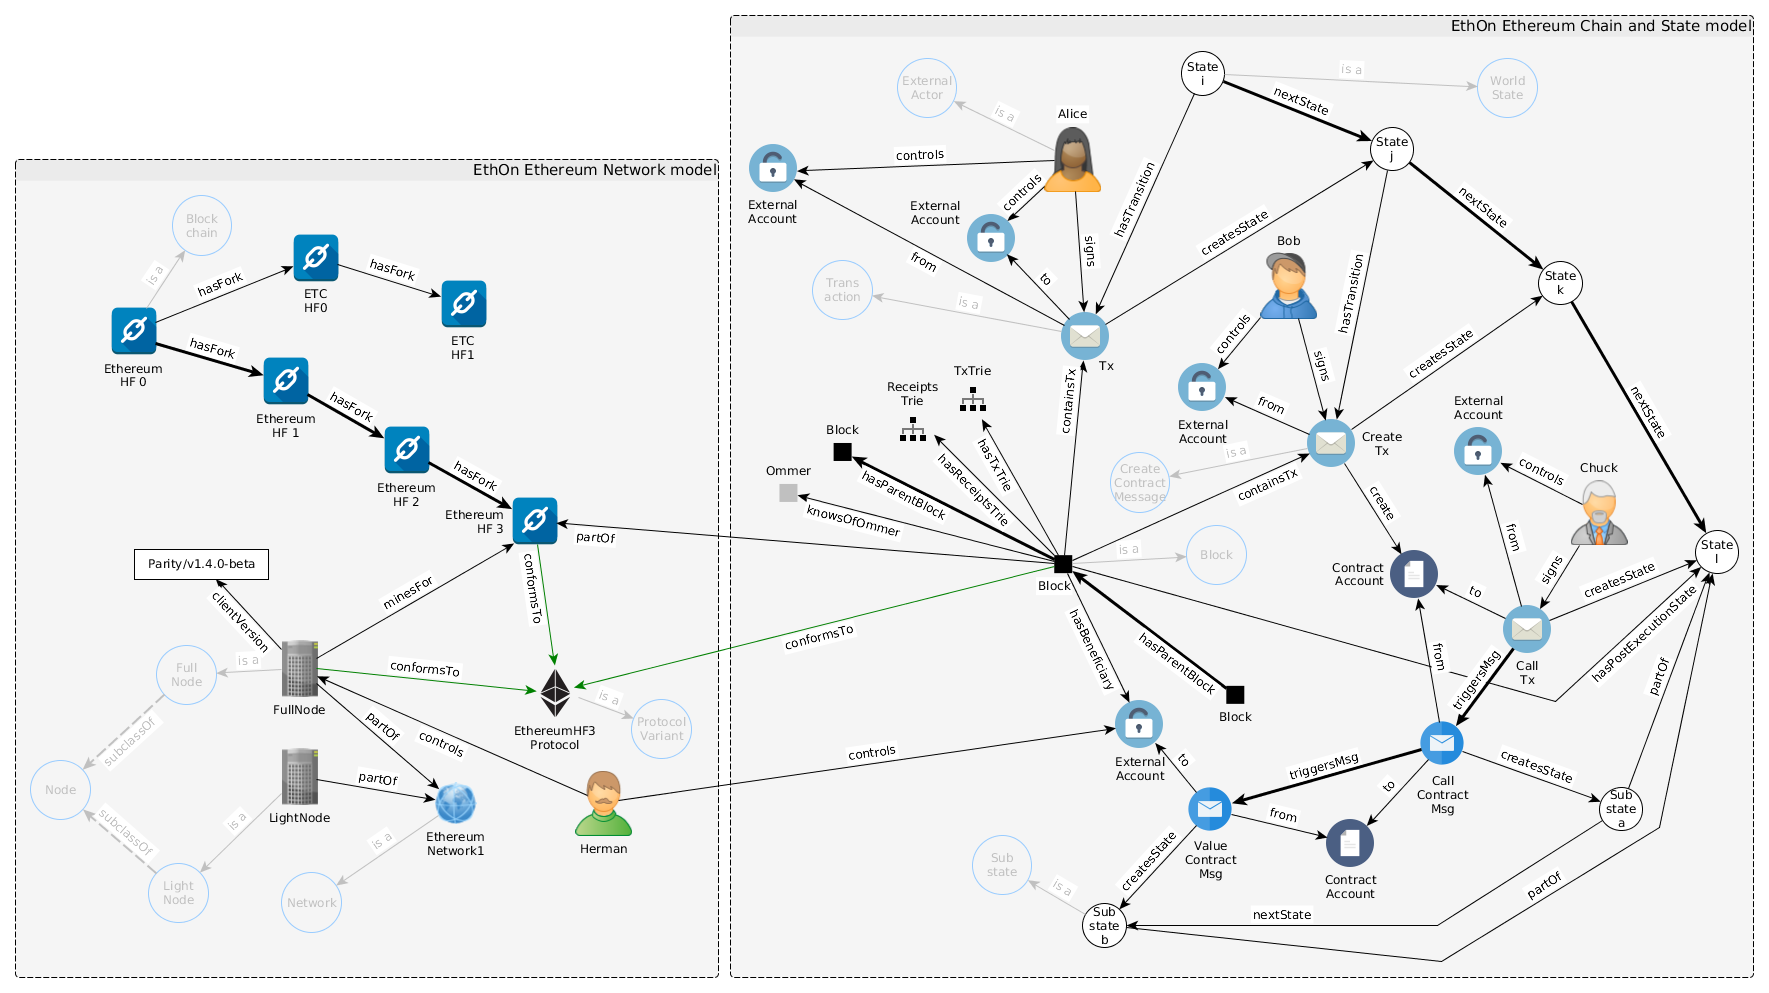
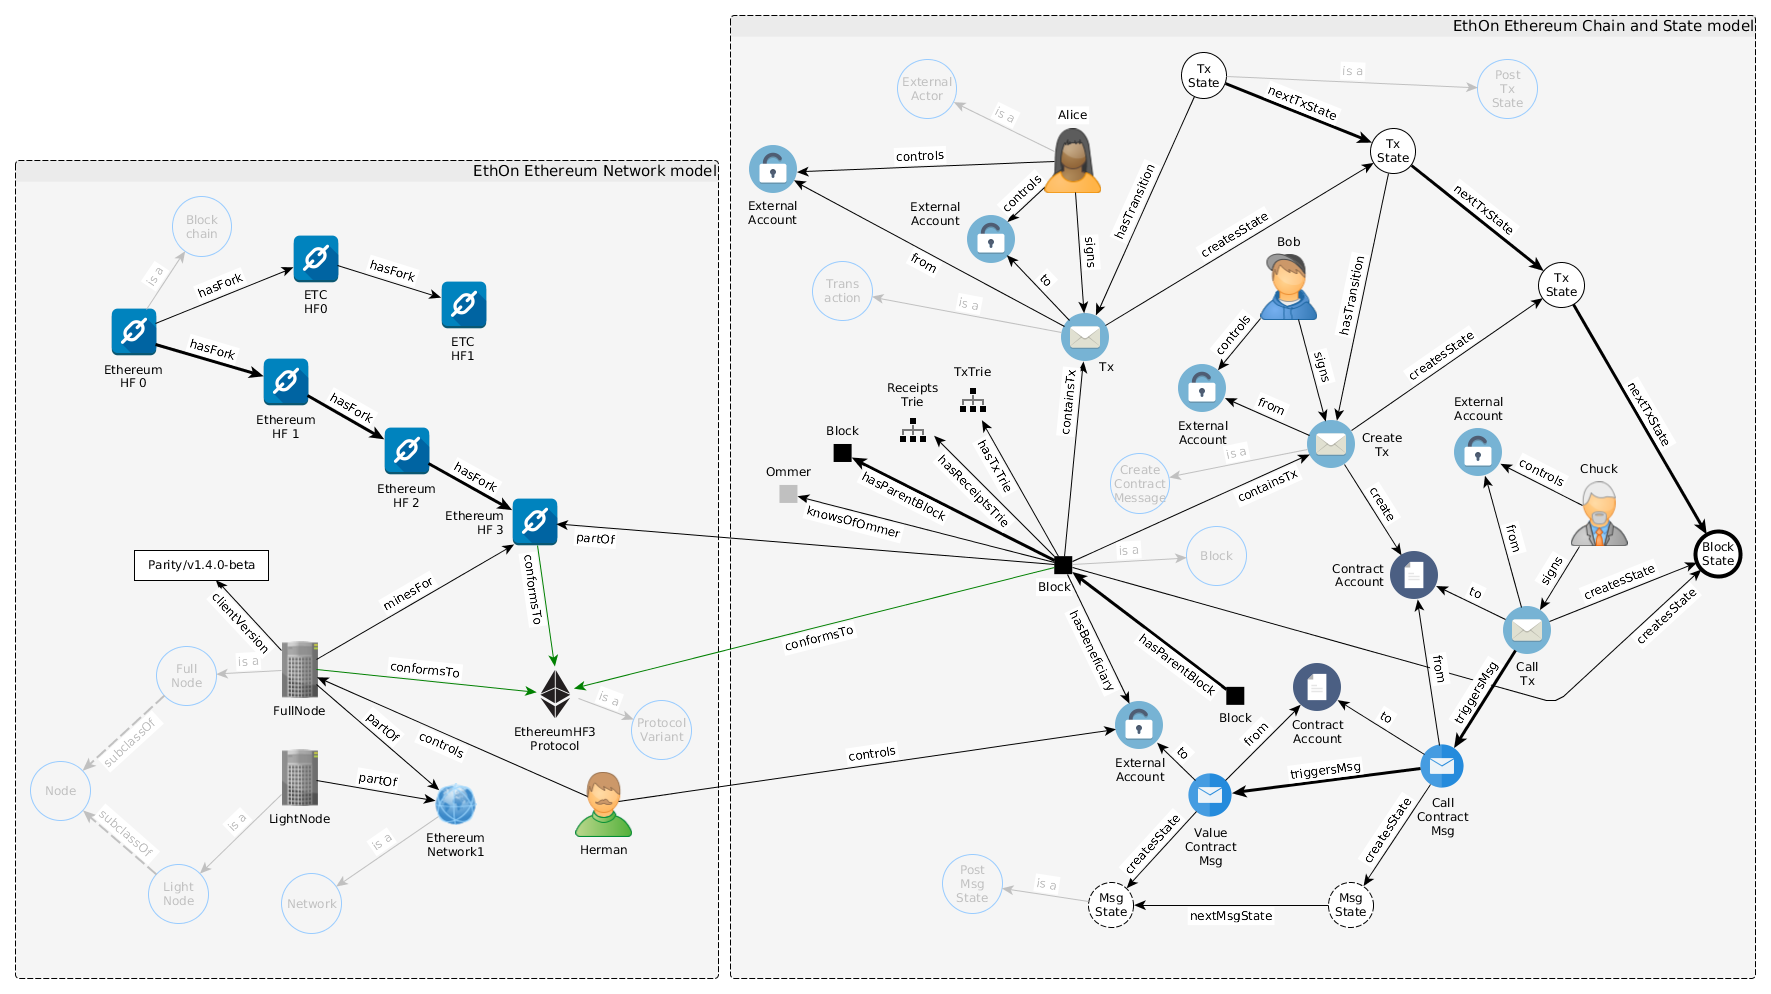
modified the state concept

diff --git a/EthOn_spec.html b/EthOn_spec.html
@@ -36,7 +36,7 @@
         <dt>Creators</dt>
         <dd>mailto:johannes.pfeffer@consensys.net</dd>
         <dt>Contributors</dt>
-        <dd>mailto:herman.junge@consensys.net, mailto:shahan.khatchadourian@consensys.net</dd>
+        <dd>mailto:shahan.khatchadourian@consensys.net, mailto:herman.junge@consensys.net</dd>
         <dt>Preferred prefix</dt>
         <dd>ethon</dd>
         <dt>Term status</dt>
@@ -46,7 +46,7 @@
         <dt>Imports</dt>
         <dd><a href="http://www.w3.org/2003/06/sw-vocab-status/ns">http://www.w3.org/2003/06/sw-vocab-status/ns</a><br/></dd>
         <dt>See also</dt>
-        <dd><a href="https://github.com/ethereum/wiki/wiki/White-Paper">https://github.com/ethereum/wiki/wiki/White-Paper</a><br/><a href="https://github.com/ethereum/yellowpaper">https://github.com/ethereum/yellowpaper</a><br/></dd>
+        <dd><a href="https://github.com/ethereum/yellowpaper">https://github.com/ethereum/yellowpaper</a><br/><a href="https://github.com/ethereum/wiki/wiki/White-Paper">https://github.com/ethereum/wiki/wiki/White-Paper</a><br/></dd>
     </dl>
     <h2 data-toc-skip>Table of contents</h2>
     <nav id="toc" data-toggle="toc"></nav>
@@ -130,7 +130,7 @@
     <div class="row">
         <div class="col-sm-4">
             <!-- Class tree -->
-            <h3>Classes <span class="badge">42</span></h3>
+            <h3>Classes <span class="badge">44</span></h3>
 
             <ul>
                     <li><a class="label label-primary" href="#class-ethonconcept">EthOnConcept</a><ul>
@@ -167,7 +167,10 @@
                     <li><a class="label label-primary" href="#class-accountstorage">AccountStorage</a></li>
                     <li><a class="label label-primary" href="#class-receiptstrie">ReceiptsTrie</a></li>
                     <li><a class="label label-primary" href="#class-txtrie">TxTrie</a></li>
-                    <li><a class="label label-primary" href="#class-worldstate">WorldState</a></li></ul></li>
+                    <li><a class="label label-primary" href="#class-worldstate">WorldState</a><ul>
+                    <li><a class="label label-primary" href="#class-postmsgstate">PostMsgState</a><ul>
+                    <li><a class="label label-primary" href="#class-posttxstate">PostTxState</a><ul>
+                    <li><a class="label label-primary" href="#class-postblockstate">PostBlockState</a></li></ul></li></ul></li></ul></li></ul></li>
                     <li><a class="label label-primary" href="#class-networkconcept">NetworkConcept</a><ul>
                     <li><a class="label label-primary" href="#class-blockchain">Blockchain</a></li>
                     <li><a class="label label-primary" href="#class-network">Network</a></li>
@@ -177,10 +180,15 @@
                     <li><a class="label label-primary" href="#class-protocollvariant">ProtocollVariant</a></li></ul></li>
                     <li><a class="label label-primary" href="#class-stateconcept">StateConcept</a><ul>
                     <li><a class="label label-primary" href="#class-state">State</a><ul>
-                    <li><a class="label label-primary" href="#class-substate">SubState</a><ul>
-                    <li><a class="label label-primary" href="#class-accountstate">AccountState</a></li></ul></li>
-                    <li><a class="label label-primary" href="#class-worldstate">WorldState</a></li></ul></li>
-                    <li><a class="label label-primary" href="#class-statetransition">StateTransition</a></li></ul></li></ul></li>
+                    <li><a class="label label-primary" href="#class-accountstate">AccountState</a></li>
+                    <li><a class="label label-primary" href="#class-worldstate">WorldState</a><ul>
+                    <li><a class="label label-primary" href="#class-postmsgstate">PostMsgState</a><ul>
+                    <li><a class="label label-primary" href="#class-posttxstate">PostTxState</a><ul>
+                    <li><a class="label label-primary" href="#class-postblockstate">PostBlockState</a></li></ul></li></ul></li></ul></li></ul></li>
+                    <li><a class="label label-primary" href="#class-statetransition">StateTransition</a><ul>
+                    <li><a class="label label-primary" href="#class-block">Block</a><ul>
+                    <li><a class="label label-primary" href="#class-genesisblock">GenesisBlock</a></li>
+                    <li><a class="label label-primary" href="#class-ommer">Ommer</a></li></ul></li></ul></li></ul></li></ul></li>
                     <li><a class="label label-primary" href="#class-httpxmlnscomfoaf01agent">Agent</a><ul>
                     <li><a class="label label-primary" href="#class-externalactor">ExternalActor</a></li></ul></li>
             </ul>
@@ -269,7 +277,7 @@
 
 
     <!-- Class list-->
-    <h2>Class descriptions <span class="badge">42</span></h2>
+    <h2>Class descriptions <span class="badge">44</span></h2>
     
         <h3 id="class-account">Account</h3>
         <p>Accounts have an intrinsic balance and transaction count maintained as part of the Ethereum state. They also have some (possibly empty) EVM Code and a (possibly empty) Storage State associated with them. Though homogenous, it makes sense to distinguish between two practical types of Account: those with empty associated EVM Code (thus the Account balance is controlled, if at all, by some external entity) and those with non-empty associated EVM Code (thus the Account represents an Autonomous Object). Each Account has a single Address that identifies it.</p>
@@ -386,7 +394,7 @@
         </table>
     
         <h3 id="class-accountstate">AccountState</h3>
-        <p>State of an Ethereum Account. It is comprised on four pieces of information: nonce, balance, storage root and code hash. The data is stored in a Merkle Patricia tree as a mapping between addresses and Account states.</p>
+        <p>State of an Ethereum Account. It is comprised on four pieces of information: nonce, balance, storage root and code hash. The data is stored in a Merkle Patricia tree as a mapping between addresses and Account states. The Account State is part of the World State.</p>
         <table class="table table-striped">
             
                 <tr>
@@ -411,7 +419,7 @@
                     <td class="col-md-10">
                         
                             <a class="label label-primary" href="#class-accountconcept">AccountConcept</a> 
-                            <a class="label label-primary" href="#class-substate">SubState</a> 
+                            <a class="label label-primary" href="#class-state">State</a> 
                     </td>
                 </tr>
             
@@ -548,6 +556,7 @@
                     <td class="col-md-10">
                         
                             <a class="label label-primary" href="#class-blockconcept">BlockConcept</a> 
+                            <a class="label label-primary" href="#class-statetransition">StateTransition</a> 
                     </td>
                 </tr>
             
@@ -1575,6 +1584,95 @@
             
         </table>
     
+        <h3 id="class-postblockstate">PostBlockState</h3>
+        <p></p>
+        <table class="table table-striped">
+            
+            
+                <tr>
+                    <td class="col-md-2">URI</td>
+                    <td class="col-md-10"><a href="http://consensys.net/ethereum-ontology/PostBlockState">http://consensys.net/ethereum-ontology/PostBlockState</a></td>
+                </tr>
+            
+            
+                <tr>
+                    <td class="col-md-2">Superclasses</td>
+                    <td class="col-md-10">
+                        
+                            <a class="label label-primary" href="#class-posttxstate">PostTxState</a> 
+                    </td>
+                </tr>
+            
+            
+            
+            
+            
+        </table>
+    
+        <h3 id="class-postmsgstate">PostMsgState</h3>
+        <p></p>
+        <table class="table table-striped">
+            
+            
+                <tr>
+                    <td class="col-md-2">URI</td>
+                    <td class="col-md-10"><a href="http://consensys.net/ethereum-ontology/PostMsgState">http://consensys.net/ethereum-ontology/PostMsgState</a></td>
+                </tr>
+            
+            
+                <tr>
+                    <td class="col-md-2">Superclasses</td>
+                    <td class="col-md-10">
+                        
+                            <a class="label label-primary" href="#class-worldstate">WorldState</a> 
+                    </td>
+                </tr>
+            
+                <tr>
+                    <td class="col-md-2">Subclasses</td>
+                    <td class="col-md-10">
+                        
+                            <a class="label label-primary" href="#class-posttxstate">PostTxState</a> 
+                    </td>
+                </tr>
+            
+            
+            
+            
+        </table>
+    
+        <h3 id="class-posttxstate">PostTxState</h3>
+        <p></p>
+        <table class="table table-striped">
+            
+            
+                <tr>
+                    <td class="col-md-2">URI</td>
+                    <td class="col-md-10"><a href="http://consensys.net/ethereum-ontology/PostTxState">http://consensys.net/ethereum-ontology/PostTxState</a></td>
+                </tr>
+            
+            
+                <tr>
+                    <td class="col-md-2">Superclasses</td>
+                    <td class="col-md-10">
+                        
+                            <a class="label label-primary" href="#class-postmsgstate">PostMsgState</a> 
+                    </td>
+                </tr>
+            
+                <tr>
+                    <td class="col-md-2">Subclasses</td>
+                    <td class="col-md-10">
+                        
+                            <a class="label label-primary" href="#class-postblockstate">PostBlockState</a> 
+                    </td>
+                </tr>
+            
+            
+            
+            
+        </table>
+    
         <h3 id="class-protocollvariant">ProtocollVariant</h3>
         <p>A variant of the Ethereum protocol. Changes in the protocol result in a hard or soft fork.</p>
         <table class="table table-striped">
@@ -1687,7 +1785,7 @@
                     <td class="col-md-2">Subclasses</td>
                     <td class="col-md-10">
                         
-                            <a class="label label-primary" href="#class-substate">SubState</a> 
+                            <a class="label label-primary" href="#class-accountstate">AccountState</a> 
                             <a class="label label-primary" href="#class-worldstate">WorldState</a> 
                     </td>
                 </tr>
@@ -1779,6 +1877,13 @@
                     </td>
                 </tr>
             
+                <tr>
+                    <td class="col-md-2">Subclasses</td>
+                    <td class="col-md-10">
+                        
+                            <a class="label label-primary" href="#class-block">Block</a> 
+                    </td>
+                </tr>
             
                 <tr>
                     <td class="col-md-2">Properties include</td>
@@ -1787,48 +1892,6 @@
                             <a class="label label-default" href="#prop-createsstate">createsState</a> 
                     </td>
                 </tr>
-            
-            
-            
-        </table>
-    
-        <h3 id="class-substate">SubState</h3>
-        <p>Substate in the State hierachry. The semantics associated with State nesting are as follows: If a system is in the Substate, it also (implicitly) is in the surrounding State (Superstate).</p>
-        <table class="table table-striped">
-            
-                <tr>
-                    <td class="col-md-2">Status</td>
-                    <td class="col-md-10 
-        text-danger
-    ">unstable</td>
-                </tr>
-            
-                <tr>
-                    <td class="col-md-2">URI</td>
-                    <td class="col-md-10"><a href="http://consensys.net/ethereum-ontology/SubState">http://consensys.net/ethereum-ontology/SubState</a></td>
-                </tr>
-            
-                <tr>
-                    <td class="col-md-2">Suggested string</td>
-                    <td class="col-md-10">SubState</td>
-                </tr>
-            
-                <tr>
-                    <td class="col-md-2">Superclasses</td>
-                    <td class="col-md-10">
-                        
-                            <a class="label label-primary" href="#class-state">State</a> 
-                    </td>
-                </tr>
-            
-                <tr>
-                    <td class="col-md-2">Subclasses</td>
-                    <td class="col-md-10">
-                        
-                            <a class="label label-primary" href="#class-accountstate">AccountState</a> 
-                    </td>
-                </tr>
-            
             
             
             
@@ -2088,6 +2151,13 @@
                     </td>
                 </tr>
             
+                <tr>
+                    <td class="col-md-2">Subclasses</td>
+                    <td class="col-md-10">
+                        
+                            <a class="label label-primary" href="#class-postmsgstate">PostMsgState</a> 
+                    </td>
+                </tr>
             
                 <tr>
                     <td class="col-md-2">Properties include</td>

diff --git a/EthOn_glossary.md b/EthOn_glossary.md
@@ -10,7 +10,7 @@ Groups all Data Properties that are specific to an Account.
 ### AccountObjectProperty
 Groups all EthOn Account Object Properties
 ### AccountState
-State of an Ethereum Account. It is comprised on four pieces of information: nonce, balance, storage root and code hash. The data is stored in a Merkle Patricia tree as a mapping between addresses and Account states.
+State of an Ethereum Account. It is comprised on four pieces of information: nonce, balance, storage root and code hash. The data is stored in a Merkle Patricia tree as a mapping between addresses and Account states. The Account State is part of the World State.
 ### AccountStorage
 A Merkle Patricia tree that encodes the storage contents of an Account. It is not used to store an Account's code, but the execution state of the code. The Account's code is stored in the
 ### Agent
@@ -186,6 +186,12 @@ A scalar value equal to the number of ancestor Blocks. The genesis Block has a n
 ### Ommer
 An Ommer.
 ## P
+### PostBlockState
+
+### PostMsgState
+
+### PostTxState
+
 ### ProtocollVariant
 A variant of the Ethereum protocol. Changes in the protocol result in a hard or soft fork.
 ### partOf
@@ -211,8 +217,6 @@ Groups EthOn concepts related to state.
 Groups all EthOn State Object Properties.
 ### StateTransition
 The concept of a transition in a state transition system.
-### SubState
-Substate in the State hierachry. The semantics associated with State nesting are as follows: If a system is in the Substate, it also (implicitly) is in the surrounding State (Superstate).
 ### stateRoot
 The Keccak 256-bit hash of the root node of the state trie, after all transactions are executed and finalisations applied.
 ### storageRoot
